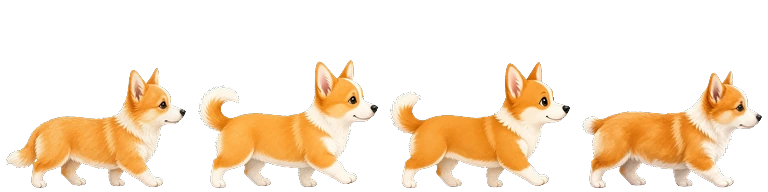
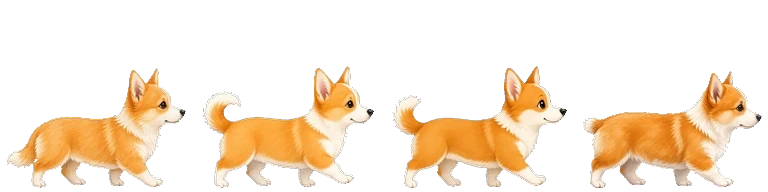
fix: scale sit sprites + real sitdown/standup sheet playback
- Replace walk/sit assets with height-normalized sheets; sit ~88% of walk content height
- Add 4-frame sitdown/standup sheets per breed (no squash/crossfade hack)
- Wire BREEDS sitdownSrc/standupSrc; play at ~11fps then idle sit / walk
- Milder sit bob (±2px); walk FRAME_FPS=6 + subtle bob

diff --git a/js/game.js b/js/game.js
@@ -949,7 +949,8 @@ function startGame() {
     const ACTOR_W = 96;
     const KENNEL_RESERVE = 102;
     const WALK_SPEED = 56;
-    const FRAME_FPS = 8;
+    const FRAME_FPS = 6;
+    const TRANS_FPS = 11;
     const APPROACH_SNAP = 4;
     let mode = 'walk';
     let dir = 1;
@@ -962,7 +963,6 @@ function startGame() {
     let frameAcc = 0;
     let sheet = '';
     let transStart = 0;
-    let transDur = 0;
 
     function prefersReduced() {
       try {
@@ -988,6 +988,11 @@ function startGame() {
       return n > 0 ? n : 4;
     }
 
+    function sitdownFrameCount() {
+      const n = Number(actor.dataset.sitdownFrames);
+      return n > 0 ? n : 4;
+    }
+
     function schedule(now) {
       if (mode === 'walk') modeUntil = now + rand(4000, 8000);
       else if (mode === 'sit') modeUntil = now + rand(2000, 4000);
@@ -1008,13 +1013,16 @@ function startGame() {
       sprite.style.transform = 'translateY(' + ty.toFixed(2) + 'px) scaleY(' + scaleY.toFixed(3) + ')';
     }
 
-    function paintWalkFrame() {
+    function paintSheetFrame(frames) {
       if (!sprite) return;
-      const frames = walkFrameCount();
       const w = sprite.clientWidth || 96;
-      const f = ((frame % frames) + frames) % frames;
+      const f = Math.min(frames - 1, Math.max(0, frame | 0));
       sprite.style.backgroundSize = (frames * w) + 'px 100%';
       sprite.style.backgroundPosition = (-f * w) + 'px 0';
+    }
+
+    function paintWalkFrame() {
+      paintSheetFrame(walkFrameCount());
     }
 
     function applyWalkSheet() {
@@ -1036,8 +1044,24 @@ function startGame() {
       sheet = 'sit';
     }
 
-    function easeOut(t) {
-      return 1 - (1 - t) * (1 - t);
+    function applySitdownSheet() {
+      if (!sprite) return;
+      const src = actor.dataset.sitdownSrc || '';
+      if (src) sprite.style.backgroundImage = 'url("' + src + '")';
+      frame = 0;
+      frameAcc = 0;
+      sheet = 'sitdown';
+      paintSheetFrame(sitdownFrameCount());
+    }
+
+    function applyStandupSheet() {
+      if (!sprite) return;
+      const src = actor.dataset.standupSrc || '';
+      if (src) sprite.style.backgroundImage = 'url("' + src + '")';
+      frame = 0;
+      frameAcc = 0;
+      sheet = 'standup';
+      paintSheetFrame(sitdownFrameCount());
     }
 
     function advanceWalkFrames(dt, fps) {
@@ -1054,8 +1078,14 @@ function startGame() {
       const sx = dir < 0 ? -1 : 1;
       actor.style.transform = 'translate3d(' + x.toFixed(1) + 'px,0,0) scaleX(' + sx + ')';
       actor.dataset.mode = mode;
-      if (sheet === 'walk' && (mode === 'walk' || mode === 'approach' || mode === 'sitdown' || mode === 'standup')) {
+      if (sheet === 'walk' && (mode === 'walk' || mode === 'approach')) {
         paintWalkFrame();
+        const bob = Math.sin(performance.now() / 160) * 2;
+        setSpriteXform(1, bob);
+      } else if (mode === 'sitdown' && sheet === 'sitdown') {
+        paintSheetFrame(sitdownFrameCount());
+      } else if (mode === 'standup' && sheet === 'standup') {
+        paintSheetFrame(sitdownFrameCount());
       }
     }
 
@@ -1072,9 +1102,9 @@ function startGame() {
     function enterSitdown(now) {
       mode = 'sitdown';
       transStart = now;
-      transDur = rand(450, 550);
       setSitIdle(false);
-      applyWalkSheet();
+      setSpriteXform(null);
+      applySitdownSheet();
     }
 
     function enterSit(now) {
@@ -1091,9 +1121,9 @@ function startGame() {
     function enterStandup(now) {
       mode = 'standup';
       transStart = now;
-      transDur = 350;
       setSitIdle(false);
-      applySitSheet();
+      setSpriteXform(null);
+      applyStandupSheet();
     }
 
     function enterWalk(now, flipMaybe) {
@@ -1160,35 +1190,19 @@ function startGame() {
       }
 
       if (mode === 'sitdown') {
-        const p = Math.min(1, (ts - transStart) / transDur);
-        if (p < 0.45) {
-          const u = p / 0.45;
-          if (sheet !== 'walk') applyWalkSheet();
-          setSpriteXform(1 - u * (1 - 0.82), u * 6);
-          advanceWalkFrames(dt, FRAME_FPS * 0.45);
-        } else {
-          if (sheet !== 'sit') applySitSheet();
-          const e = easeOut((p - 0.45) / 0.55);
-          setSpriteXform(0.88 + e * (1 - 0.88), (1 - e) * 4);
-        }
-        if (p >= 1) enterSit(ts);
+        const frames = sitdownFrameCount();
+        const elapsed = (ts - transStart) / 1000;
+        frame = Math.min(frames - 1, Math.floor(elapsed * TRANS_FPS));
+        if (elapsed >= frames / TRANS_FPS) enterSit(ts);
       } else if (mode === 'sit') {
         x = walkBounds().sitX;
         dir = 1;
         if (ts >= modeUntil) enterStandup(ts);
       } else if (mode === 'standup') {
-        const p = Math.min(1, (ts - transStart) / transDur);
-        if (p < 0.45) {
-          const u = p / 0.45;
-          if (sheet !== 'sit') applySitSheet();
-          setSpriteXform(1 - u * (1 - 0.88), u * 4);
-        } else {
-          if (sheet !== 'walk') applyWalkSheet();
-          const e = easeOut((p - 0.45) / 0.55);
-          setSpriteXform(0.82 + e * (1 - 0.82), (1 - e) * 6);
-          advanceWalkFrames(dt, FRAME_FPS * 0.6);
-        }
-        if (p >= 1) enterWalk(ts, true);
+        const frames = sitdownFrameCount();
+        const elapsed = (ts - transStart) / 1000;
+        frame = Math.min(frames - 1, Math.floor(elapsed * TRANS_FPS));
+        if (elapsed >= frames / TRANS_FPS) enterWalk(ts, true);
       }
 
       paint();
@@ -1237,12 +1251,17 @@ function startGame() {
     else if (img && breed.src) img.src = breed.src;
     const walkSrc = breed.walkSrc || '';
     const sitSrc = breed.sitSrc || '';
+    const sitdownSrc = breed.sitdownSrc || '';
+    const standupSrc = breed.standupSrc || '';
     if (actor) {
       actor.dataset.walkSrc = walkSrc;
       actor.dataset.sitSrc = sitSrc;
+      actor.dataset.sitdownSrc = sitdownSrc;
+      actor.dataset.standupSrc = standupSrc;
       actor.dataset.frameW = String(breed.frameW || 192);
       actor.dataset.frameH = String(breed.frameH || 192);
       actor.dataset.walkFrames = String(breed.walkFrames || 4);
+      actor.dataset.sitdownFrames = String(breed.sitdownFrames || 4);
     }
     if (sprite) {
       const mode = (actor && actor.dataset.mode) || 'walk';

diff --git a/js/content.js b/js/content.js
@@ -179,13 +179,13 @@ function defaultPackUnlocks() {
 }
 
 const BREEDS = {
-  lab: { id: 'lab', name: 'Лабрадор', desc: 'Сбалансированный старт', src: 'assets/dog-click.webp', walkSrc: 'assets/dog-lab-walk.webp', sitSrc: 'assets/dog-lab-sit.webp', walkFrames: 4, frameW: 192, frameH: 192, unlockCost: 0, bonuses: { clickMult: 1, idleMult: 1, comboWindowBonus: 0 }, startUnlocked: true },
-  corgi: { id: 'corgi', name: 'Корги', desc: '+5% к почесушкам', src: 'assets/dog-corgi.webp', walkSrc: 'assets/dog-corgi-walk.webp', sitSrc: 'assets/dog-corgi-sit.webp', walkFrames: 4, frameW: 192, frameH: 192, unlockCost: 35000, reqLifetime: 1e5, bonuses: { clickMult: 1.05, idleMult: 1, comboWindowBonus: 0 }, startUnlocked: false },
-  husky: { id: 'husky', name: 'Хаски', desc: '+5% к автодоходу', src: 'assets/dog-husky.webp', walkSrc: 'assets/dog-husky-walk.webp', sitSrc: 'assets/dog-husky-sit.webp', walkFrames: 4, frameW: 192, frameH: 192, unlockCost: 140000, reqLifetime: 5e5, bonuses: { clickMult: 1, idleMult: 1.05, comboWindowBonus: 0 }, startUnlocked: false },
-  dachshund: { id: 'dachshund', name: 'Такса', desc: '+200 мс к окну комбо', src: 'assets/dog-dachshund.webp', walkSrc: 'assets/dog-dachshund-walk.webp', sitSrc: 'assets/dog-dachshund-sit.webp', walkFrames: 4, frameW: 192, frameH: 192, unlockCost: 450000, reqLifetime: 2.5e6, reqMedals: 1, bonuses: { clickMult: 1, idleMult: 1, comboWindowBonus: 200 }, startUnlocked: false },
-  shiba: { id: 'shiba', name: 'Сиба', desc: '+4% к почесушкам и +2% к автодоходу', src: 'assets/dog-shiba.webp', walkSrc: 'assets/dog-shiba-walk.webp', sitSrc: 'assets/dog-shiba-sit.webp', walkFrames: 4, frameW: 192, frameH: 192, unlockCost: 1.2e6, reqLifetime: 6e6, reqMedals: 2, bonuses: { clickMult: 1.04, idleMult: 1.02, comboWindowBonus: 0 }, startUnlocked: false },
-  poodle: { id: 'poodle', name: 'Пудель', desc: '+8% к автодоходу', src: 'assets/dog-poodle.webp', walkSrc: 'assets/dog-poodle-walk.webp', sitSrc: 'assets/dog-poodle-sit.webp', walkFrames: 4, frameW: 192, frameH: 192, unlockCost: 2.8e6, reqLifetime: 2.5e7, reqMedals: 3, bonuses: { clickMult: 1, idleMult: 1.08, comboWindowBonus: 0 }, startUnlocked: false },
-  beagle: { id: 'beagle', name: 'Бигль', desc: '+6% к почесушкам · +80 мс комбо', src: 'assets/dog-beagle.webp', walkSrc: 'assets/dog-beagle-walk.webp', sitSrc: 'assets/dog-beagle-sit.webp', walkFrames: 4, frameW: 192, frameH: 192, unlockCost: 7e6, reqLifetime: 8e7, reqMedals: 5, bonuses: { clickMult: 1.06, idleMult: 1, comboWindowBonus: 80 }, startUnlocked: false },
+  lab: { id: 'lab', name: 'Лабрадор', desc: 'Сбалансированный старт', src: 'assets/dog-click.webp', walkSrc: 'assets/dog-lab-walk.webp', sitSrc: 'assets/dog-lab-sit.webp', sitdownSrc: 'assets/dog-lab-sitdown.webp', standupSrc: 'assets/dog-lab-standup.webp', sitdownFrames: 4, walkFrames: 4, frameW: 192, frameH: 192, unlockCost: 0, bonuses: { clickMult: 1, idleMult: 1, comboWindowBonus: 0 }, startUnlocked: true },
+  corgi: { id: 'corgi', name: 'Корги', desc: '+5% к почесушкам', src: 'assets/dog-corgi.webp', walkSrc: 'assets/dog-corgi-walk.webp', sitSrc: 'assets/dog-corgi-sit.webp', sitdownSrc: 'assets/dog-corgi-sitdown.webp', standupSrc: 'assets/dog-corgi-standup.webp', sitdownFrames: 4, walkFrames: 4, frameW: 192, frameH: 192, unlockCost: 35000, reqLifetime: 1e5, bonuses: { clickMult: 1.05, idleMult: 1, comboWindowBonus: 0 }, startUnlocked: false },
+  husky: { id: 'husky', name: 'Хаски', desc: '+5% к автодоходу', src: 'assets/dog-husky.webp', walkSrc: 'assets/dog-husky-walk.webp', sitSrc: 'assets/dog-husky-sit.webp', sitdownSrc: 'assets/dog-husky-sitdown.webp', standupSrc: 'assets/dog-husky-standup.webp', sitdownFrames: 4, walkFrames: 4, frameW: 192, frameH: 192, unlockCost: 140000, reqLifetime: 5e5, bonuses: { clickMult: 1, idleMult: 1.05, comboWindowBonus: 0 }, startUnlocked: false },
+  dachshund: { id: 'dachshund', name: 'Такса', desc: '+200 мс к окну комбо', src: 'assets/dog-dachshund.webp', walkSrc: 'assets/dog-dachshund-walk.webp', sitSrc: 'assets/dog-dachshund-sit.webp', sitdownSrc: 'assets/dog-dachshund-sitdown.webp', standupSrc: 'assets/dog-dachshund-standup.webp', sitdownFrames: 4, walkFrames: 4, frameW: 192, frameH: 192, unlockCost: 450000, reqLifetime: 2.5e6, reqMedals: 1, bonuses: { clickMult: 1, idleMult: 1, comboWindowBonus: 200 }, startUnlocked: false },
+  shiba: { id: 'shiba', name: 'Сиба', desc: '+4% к почесушкам и +2% к автодоходу', src: 'assets/dog-shiba.webp', walkSrc: 'assets/dog-shiba-walk.webp', sitSrc: 'assets/dog-shiba-sit.webp', sitdownSrc: 'assets/dog-shiba-sitdown.webp', standupSrc: 'assets/dog-shiba-standup.webp', sitdownFrames: 4, walkFrames: 4, frameW: 192, frameH: 192, unlockCost: 1.2e6, reqLifetime: 6e6, reqMedals: 2, bonuses: { clickMult: 1.04, idleMult: 1.02, comboWindowBonus: 0 }, startUnlocked: false },
+  poodle: { id: 'poodle', name: 'Пудель', desc: '+8% к автодоходу', src: 'assets/dog-poodle.webp', walkSrc: 'assets/dog-poodle-walk.webp', sitSrc: 'assets/dog-poodle-sit.webp', sitdownSrc: 'assets/dog-poodle-sitdown.webp', standupSrc: 'assets/dog-poodle-standup.webp', sitdownFrames: 4, walkFrames: 4, frameW: 192, frameH: 192, unlockCost: 2.8e6, reqLifetime: 2.5e7, reqMedals: 3, bonuses: { clickMult: 1, idleMult: 1.08, comboWindowBonus: 0 }, startUnlocked: false },
+  beagle: { id: 'beagle', name: 'Бигль', desc: '+6% к почесушкам · +80 мс комбо', src: 'assets/dog-beagle.webp', walkSrc: 'assets/dog-beagle-walk.webp', sitSrc: 'assets/dog-beagle-sit.webp', sitdownSrc: 'assets/dog-beagle-sitdown.webp', standupSrc: 'assets/dog-beagle-standup.webp', sitdownFrames: 4, walkFrames: 4, frameW: 192, frameH: 192, unlockCost: 7e6, reqLifetime: 8e7, reqMedals: 5, bonuses: { clickMult: 1.06, idleMult: 1, comboWindowBonus: 80 }, startUnlocked: false },
 };
 const BREED_COUNT = Object.keys(BREEDS).length;
 

diff --git a/css/style.css b/css/style.css
@@ -257,7 +257,7 @@ header h1 {
 
 @keyframes dog-sit-idle {
   0%, 100% { transform: translateY(0); }
-  50% { transform: translateY(-3px); }
+  50% { transform: translateY(-2px); }
 }
 
 #dogActor.dog-sit-idle .dog-sprite,
